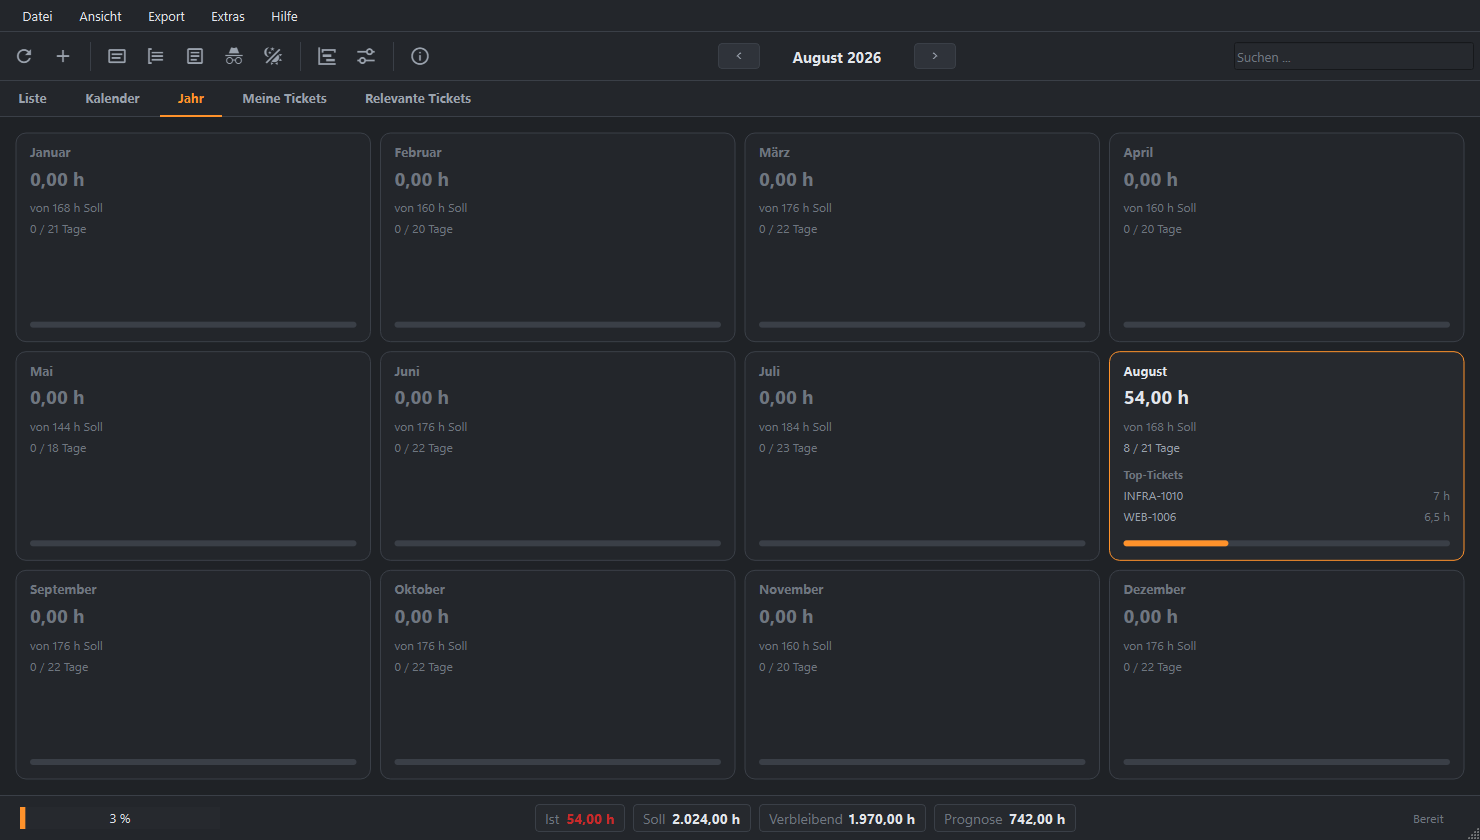
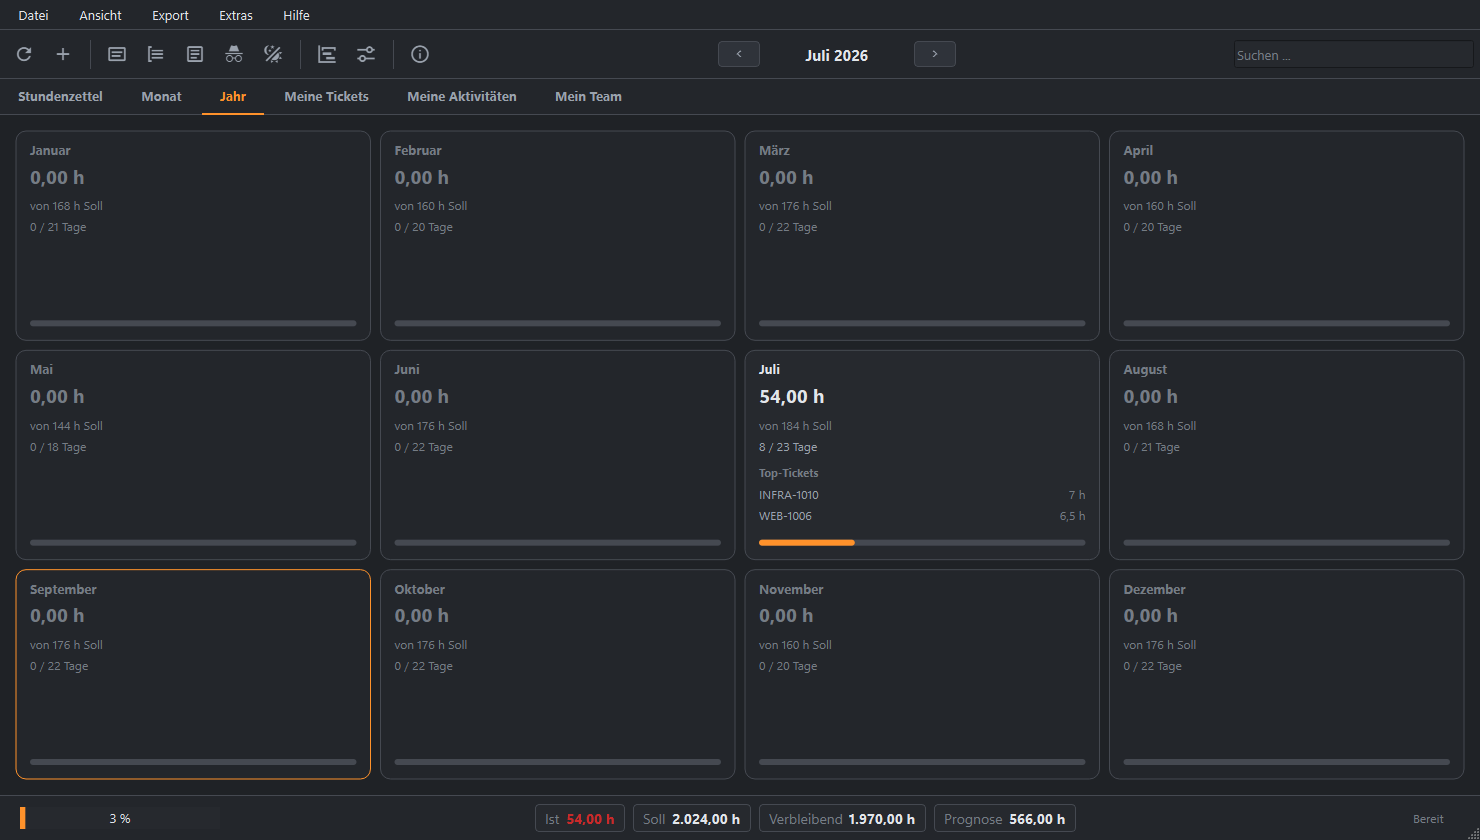
docs: Screenshots neu, mit Ticket-Vorschau
Alle Bilder neu aus den anonymisierten Demodaten. Neu sind zwei Bilder
der Ticket-Vorschau, eingebunden in beide READMEs und die Projektseite.

Das Skript stellt das Fenster jetzt auf den Monat der Demodaten. Bisher
stand es auf dem heutigen Monat - die Monatsansicht zeigte dann nur
fehlende Tage, und die Jahresansicht zählte die Stunden zum falschen
Monat.

Claude-Session: https://claude.ai/code/session_01QEefPQztMwFr4DkqHvNvzb

diff --git a/docs/index.html b/docs/index.html
@@ -72,7 +72,7 @@
       <button class="gallery-tab" onclick="showCat(2)">Monat</button>
       <button class="gallery-tab" onclick="showCat(3)">Jahr</button>
       <button class="gallery-tab" onclick="showCat(4)">Meine Tickets</button>
-      <button class="gallery-tab" onclick="showCat(5)">Details</button>
+      <button class="gallery-tab" onclick="showCat(5)">Vorschau &amp; Details</button>
       <button class="gallery-tab" onclick="showCat(6)">Einstellungen</button>
     </div>
 
@@ -104,6 +104,8 @@
     </div>
 
     <div class="gallery-cat" data-cat="5">
+      <div class="gallery-card"><img src="screenshots/preview-dark.png" alt="Ticket-Vorschau (dunkel)"><div class="gallery-caption">Ticket-Vorschau neben der Liste - dunkel</div></div>
+      <div class="gallery-card"><img src="screenshots/preview-light.png" alt="Ticket-Vorschau (hell)"><div class="gallery-caption">Ticket-Vorschau neben der Liste - hell</div></div>
       <div class="gallery-card"><img src="screenshots/detail-dark.png" alt="Ticket-Details (dunkel)"><div class="gallery-caption">Ticket-Details - dunkel</div></div>
       <div class="gallery-card"><img src="screenshots/detail-light.png" alt="Ticket-Details (hell)"><div class="gallery-caption">Ticket-Details - hell</div></div>
     </div>

diff --git a/assets/make_screenshots.py b/assets/make_screenshots.py
@@ -39,6 +39,7 @@ from jira_timesheet_qt.services.anonymizer import (  # noqa: E402
     anonymize_board,
     anonymize_timesheet,
 )
+from jira_timesheet_qt.services.ticket_preview import TicketPreviewData  # noqa: E402
 from jira_timesheet_qt.ui.about_dialog import AboutDialog  # noqa: E402
 from jira_timesheet_qt.ui.demo import demo_timesheet  # noqa: E402
 from jira_timesheet_qt.ui.demo_board import demo_board, demo_statistics  # noqa: E402
@@ -114,13 +115,84 @@ def _data() -> Timesheet:
     return anonymize_timesheet(demo_timesheet())
 
 
+def _show_month_of(win: MainWindow, data: Timesheet) -> None:
+    """Stellt das Fenster auf den Monat der Demodaten.
+
+    Das Fenster startet im heutigen Monat. Liegen die Demodaten in einem
+    anderen, zeigt die Monatsansicht nur fehlende Tage, und die Jahresansicht
+    bucht die Stunden in den falschen Monat.
+    """
+    if not data.all_entries:
+        return
+    first = data.all_entries[0].date
+    win._year, win._month = first.year, first.month
+    win._update_period_labels()
+
+
 def _window(mode: Mode, *, with_data: bool = True) -> MainWindow:
     """Erzeugt ein Hauptfenster mit Demodaten (oder leer), flache Liste."""
     win = MainWindow(Settings(), mode)
     # Deterministisch die flache Liste zeigen - der Gruppierzustand kommt sonst
     # aus der Registry und schwankt zwischen Rechnern.
     win._grouped = False
-    win.set_timesheet(_data() if with_data else None)
+    data = _data() if with_data else None
+    if data is not None:
+        _show_month_of(win, data)
+    win.set_timesheet(data)
+    return win
+
+
+def _preview_window(mode: Mode) -> MainWindow:
+    """Erzeugt ein Hauptfenster mit eingeschalteter Ticket-Vorschau.
+
+    Die Vorschau zeigt ein erfundenes Ticket. Es wird direkt gesetzt, nicht
+    abgerufen - ohne Zugang gaebe es sonst nur den Hinweis auf fehlende Daten.
+
+    Args:
+        mode:
+            Helles oder dunkles Erscheinungsbild.
+
+    Returns:
+        Das vorbereitete Fenster, noch nicht angezeigt.
+    """
+    win = MainWindow(Settings(show_ticket_preview=True, jira_host="https://beispiel.atlassian.net"), mode)
+    win._grouped = False
+    data = _data()
+    _show_month_of(win, data)
+    win.set_timesheet(data)
+    win._tabs.setCurrentIndex(0)
+    win._table.selectRow(2)
+    win._preview_timer.stop()
+    entry = win._current_entry
+    key = entry.ticket if entry is not None else "PROJ-1003"
+    win._preview.show_data(
+        TicketPreviewData(
+            key=key,
+            summary=entry.summary if entry is not None and entry.summary else "Refactor database connection pool",
+            status="In Arbeit",
+            status_category="indeterminate",
+            issue_type="Aufgabe",
+            priority="Hoch",
+            assignee="Mustermann, Max",
+            creator="Beispiel, Bernd",
+            due_date="2026-09-30",
+            updated="2026-09-14T10:42:00",
+            time_spent_seconds=4 * 3600 + 30 * 60,
+            original_estimate_seconds=8 * 3600,
+            fix_versions="2026.10",
+            extra=[("Environments", "test, prod"), ("Team", "Team A")],
+            description_html=(
+                "<p>Unter Last laufen die Datenbankverbindungen aus. Der Pool soll "
+                "wiederverwenden statt neu aufbauen.</p>"
+                "<ul><li>Größe und Wartezeit konfigurierbar machen</li>"
+                "<li>Verbindungen vor der Ausgabe prüfen</li>"
+                "<li>Kennzahlen ins Log schreiben</li></ul>"
+                '<p>Messung: <a href="https://example.com/lasttest">Lasttest vom 10.09.</a></p>'
+            ),
+            fetched_at="2026-09-14T11:05:00",
+        )
+    )
+    win._list_splitter.setSizes([900, 560])
     return win
 
 
@@ -142,6 +214,7 @@ def _board_window(mode: Mode, *, relevant: bool = False) -> MainWindow:
         Das vorbereitete Fenster, noch nicht angezeigt.
     """
     win = MainWindow(Settings(), mode)
+    _show_month_of(win, _data())
     board_mode = MODE_RELEVANT if relevant else MODE_ASSIGNED
     board = anonymize_board(demo_board(relevant=relevant))
     view = win._board_view(board_mode)
@@ -184,6 +257,9 @@ def main() -> int:
         win._tabs.setCurrentIndex(0)
         win._search.setText("Fix")
         _grab(win, OUT / f"search-{tag}.png", W, H)
+
+        # Ticket-Vorschau neben der Liste
+        _grab(_preview_window(mode), OUT / f"preview-{tag}.png", W, H)
 
         # Monat
         win = _window(mode)

diff --git a/README.de.md b/README.de.md
@@ -61,6 +61,13 @@ Die Anwendung folgt dem hellen oder dunklen Erscheinungsbild und einer einstellb
   <img src="docs/screenshots/search-light.png" width="49%" alt="Suchfilter (hell)">
 </p>
 
+### Ticket-Vorschau - das gewählte Ticket neben der Liste, read-only
+
+<p align="center">
+  <img src="docs/screenshots/preview-dark.png" width="49%" alt="Ticket-Vorschau (dunkel)">
+  <img src="docs/screenshots/preview-light.png" width="49%" alt="Ticket-Vorschau (hell)">
+</p>
+
 ### Monats- und Jahresansicht
 
 <p align="center">

diff --git a/README.md b/README.md
@@ -59,6 +59,13 @@ The application follows the light or dark theme and a configurable accent colour
   <img src="docs/screenshots/search-light.png" width="49%" alt="Search filter (light)">
 </p>
 
+### Ticket preview - the selected ticket next to the list, read-only
+
+<p align="center">
+  <img src="docs/screenshots/preview-dark.png" width="49%" alt="Ticket preview (dark)">
+  <img src="docs/screenshots/preview-light.png" width="49%" alt="Ticket preview (light)">
+</p>
+
 ### Month and year view
 
 <p align="center">
